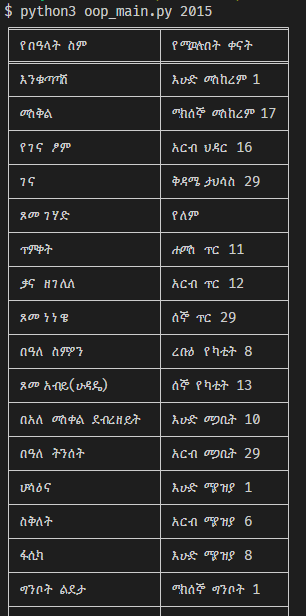
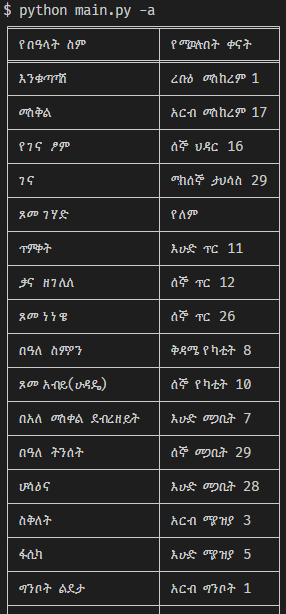
Updated README
Minor details on how to code operates in the read me file since it has changed from oop_main.py to main.py and other functionalities. I also changed the images in the readme to reflect the changes.

Issue tracker ID

Changed region(s): [[0.0, 0.0, 0.979, 1.0]]

diff --git a/main.py b/main.py
@@ -445,7 +445,7 @@ if __name__ == "__main__":
     # -------------------------------------------------------------------------------------------------
 
     if parser.parse_args().Year is None:
-        year = Date(datetime.now().year)
+        year = Date(datetime.now().year - 8)
     else:
         year = Date(args.Year)
     parameters = [

diff --git a/README.md b/README.md
@@ -8,16 +8,28 @@
 
 ### 1. Prints a table of the holidays
 
-- Assuming you are in the directory of the file `oop_main.py`, you can enter the following command:
+- Assuming you are in the directory of the file `main.py`, you can enter the following command:
 
+```sh
+python3 main.py [year] -a
 ```
-python3 oop_main.py [year]
+
+> or
+
+```sh
+python3 main.py -a
 ```
 
 Example:
 
+```sh
+python3 main.py 2015 -a
 ```
-python3 oop_main.py 2015
+
+> or you can just use the -a argument
+
+```sh
+python3 main.py -a
 ```
 
 - The command will return a table like:
@@ -26,16 +38,28 @@ python3 oop_main.py 2015
 
 ### 2. Prints a date for a specific holiday
 
-- Again, assuming you are in the directory of the file `oop_main.py`, you can enter the following command:
+- Again, assuming you are in the directory of the file `main.py`, you can enter the following command:
 
+```sh
+python3 main.py [year] [Holiday argument]
 ```
-python3 oop_main.py [year] [Holiday argument]
+
+> or
+
+```sh
+python3 main.py [Holiday argument]
 ```
 
 Example:
 
+```sh
+python3 main.py 2015 --fasika
 ```
-python3 oop_main.py 2015 --fasika
+
+> or
+
+```sh
+python3 main.py --fasika
 ```
 
 - The command will return:
@@ -44,8 +68,8 @@ python3 oop_main.py 2015 --fasika
 
 - Since there are multiple parameters for the holidays, you can run the following command for help
 
-```
-python3 oop_main.py -h
+```sh
+python3 main.py -h
 ```
 
 ### If you want to know how all the calculations were made:
